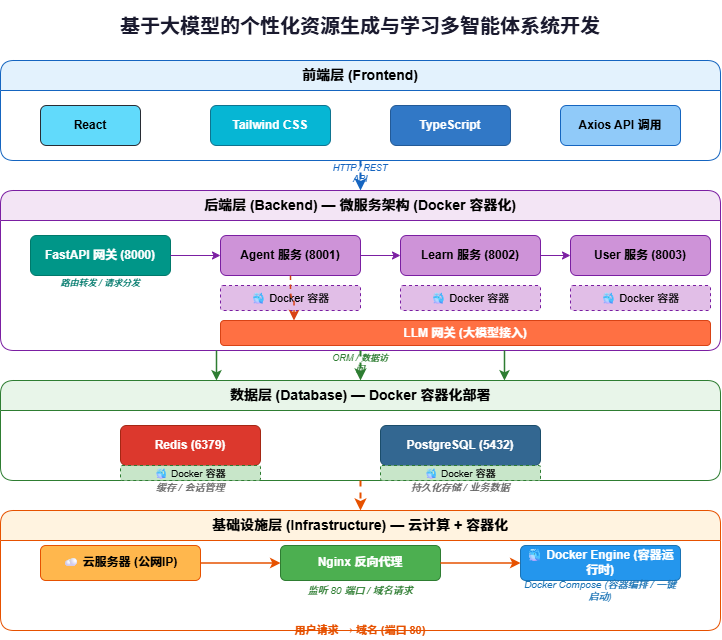
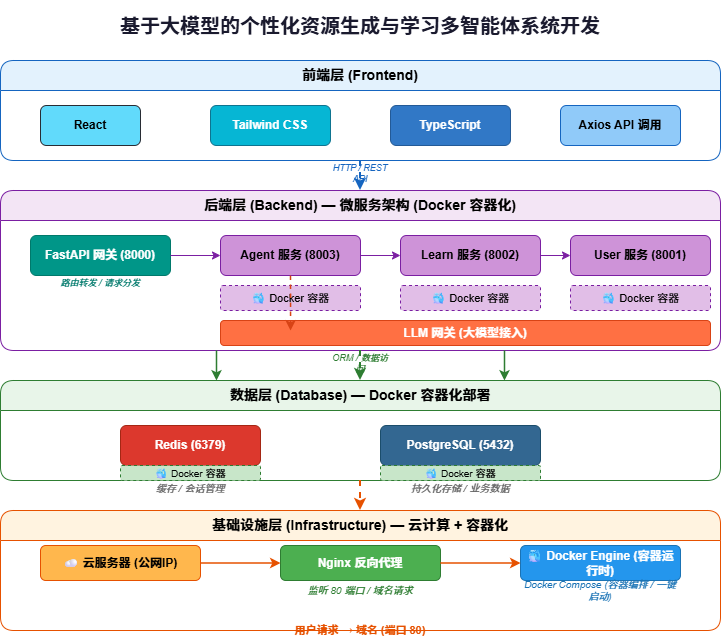
docs：更新文档

diff --git a/backend/agent-service/services/unlogin_chat.py b/backend/agent-service/services/unlogin_chat.py
@@ -23,7 +23,7 @@ async def get_unlogin_reply(user_input: str, session_id: str) -> str:
 
     history = await load_history(session_id)
 
-    # 未登录用户最多免费对话 MAX_FREE_ROUNDS 轮，第 4 轮起提示登录
+    # 未登录用户最多免费对话 MAX_FREE_ROUNDS 轮
     user_rounds = sum(1 for m in history if m["role"] == "user")
     if user_rounds >= MAX_FREE_ROUNDS:
         return (

diff --git a/README.md b/README.md
@@ -1,7 +1,20 @@
 # personalized-learning-multi-agent
+
+<div align="center">
+  <img src="https://img.shields.io/badge/Python-3.11.4-blue?style=flat" alt="Python">
+  <img src="https://img.shields.io/badge/FastAPI-0.136.1-green?style=flat" alt="FastAPI">
+  <img src="https://img.shields.io/badge/React-19.2.6-blue?style=flat" alt="React">
+  <img src="https://img.shields.io/badge/TypeScript-6.0.2-blue?style=flat" alt="TypeScript">
+  <img src="https://img.shields.io/badge/Axios-1.16.1-purple?style=flat" alt="Axios">
+  <img src="https://img.shields.io/badge/TailwindCSS-4.3.0-cyan?style=flat" alt="TailwindCSS">
+
+**第十五届中国软件杯大赛 A组赛题作品**
+
 基于大模型的个性化资源生成与学习多智能体系统开发
+</div>
 
 ---
+
 
 ## 系统整体架构
 本项目采用前后端分离的微服务架构，基于 Docker 容器化部署，实现高内聚、低耦合的系统设计，同时满足赛题对多智能体协同、个性化学习资源生成的核心要求。
@@ -11,19 +24,18 @@
 
 ### 架构分层说明
 1.  **前端层（Frontend）**
-    采用 React + TypeScript + Tailwind CSS 构建单页应用，通过 Axios 与后端进行 HTTP/REST 通信，为用户提供直观的学习交互界面，包括对话式画像构建、资源生成展示、学习路径可视化等功能。
+    采用 **React 19 + TypeScript 6 + Tailwind CSS** 构建单页应用，通过 **Axios** 与后端进行 HTTP/REST 通信，为用户提供直观的学习交互界面，包括对话式画像构建、资源生成展示、学习路径可视化等功能。
 
 2.  **后端微服务层（Backend）**
-    基于 FastAPI 搭建微服务架构，通过 API 网关实现请求路由分发，各服务职责明确：
+    基于 **FastAPI** 搭建微服务架构，通过 API 网关实现请求路由分发，各服务职责明确：
     - **Agent 服务**：多智能体核心调度，包含画像构建、资源生成、学习路径规划、智能辅导等子智能体
     - **Learn 服务**：学习业务逻辑处理，如课程管理、资源推送
     - **User 服务**：用户账号与权限管理
     系统采用统一的 LLM 调用层，所有智能体相关的 AI 能力（对话、资源生成、学习规划）均由 Agent 服务统一对接大模型服务，保证模型调用集中、易于维护与扩展。
 
 3.  **数据层（Database）**
-    - **Redis**：用于存储会话状态、对话历史缓存，提升多轮对话响应速度
+    - **Redis**：用于存储会话状态、对话历史缓存、邮箱验证码，提升响应速度
     - **PostgreSQL**：持久化存储用户画像、学习记录、资源数据等核心业务数据
-    数据库同样通过 Docker 容器化部署，确保开发与生产环境一致性。
 
 4.  **基础设施层（Infrastructure）**
-    基于云服务器 + Docker Engine 实现容器化部署，通过 Nginx 反向代理实现域名访问、负载均衡与静态资源分发，使用 Docker Compose 完成多容器编排与一键启动，保障系统可扩展性与稳定性。
+    基于云服务器 + Docker 实现容器化部署，使用 Docker Compose 完成多容器编排与一键启动，保障系统可扩展性与稳定性。
